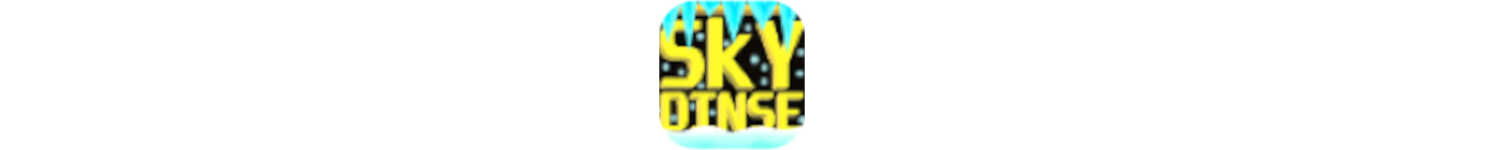
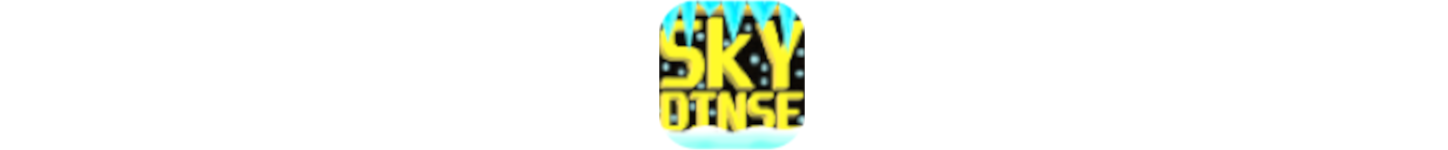
Add files via upload

Changed region(s): [[0.4351, 0.0, 0.5594, 1.0]]

diff --git a/else/citybuild.html b/else/citybuild.html
@@ -19,7 +19,7 @@
 <body>
 
 <div style="float: left;">
-    <img src="../source/style/image/banner/skydinse-banner.png" style="width: 100%" onclick="home()" alt="Skydinse Logo" style="width:950px;height:90px;"> 
+    <img src="../source/style/image/banner/skydinse-banner.png" onclick="home()" alt="Skydinse Logo" > 
 </div>
  
 <!-- Buttons start -->
@@ -52,13 +52,46 @@
     <hr>
      
     <p>CityBuild ist ein Spielmodus, in dem du dein eigenes Grundstück haben und bebauen kannst! Du kannst mit anderen Spieler*innen handeln und mit Jobs dein eigenes Geld verdienen! Weitere Infos folgen bald!</p>
-    <button class="collapsible dark">&#187; CityBuild-Kommentare</button>
+    <button class="collapsible dark">&#187; CityBuild - Kommentare</button>
       <div class="content">
         <h2 style="text-align: center;">Kommentare</h2><br />
         
         <div><object style="width: 100%; height: 800px;" data="../comments/cb-comments.html"></object></div>
         
       </div>
+
+    <button class="collapsible">&#187; CityBuild - Grundkenntnise</button>
+      <div class="content">
+        <h2 style="text-align: center;">Grundkentnisse</h2><br />
+        
+        <p>-- coming soon --</p>
+        
+      </div>
+    
+    <button class="collapsible">&#187; CityBuild - Wo ist Was?</button>
+      <div class="content">
+        <h2 style="text-align: center;">Grundkentnisse</h2><br />
+        
+        <p>-- coming soon --</p>
+        
+      </div>
+    
+    <button class="collapsible">&#187; CityBuild - Weitere Befehle</button>
+      <div class="content">
+        <h2 style="text-align: center;">Grundkentnisse</h2><br />
+        
+        <p>-- coming soon --</p>
+        
+      </div>
+    
+    <button class="collapsible">&#187; CityBuild - Shopkisten</button>
+      <div class="content">
+        <h2 style="text-align: center;">Grundkentnisse</h2><br />
+        
+        <p>-- coming soon --</p>
+        
+      </div>
+
     <script src="../source/script/js/main/collapsible.js"></script>
      
     <hr>

diff --git a/home.html b/home.html
@@ -19,18 +19,18 @@
 <body>
 
 <div style="float: left;">
-    <img src="./source/style/image/banner/skydinse-banner.png" style="width: 100%" onclick="home()" alt="Skydinse Logo" style="width:950px;height:90px;"> 
+    <img src="./source/style/image/banner/skydinse-banner.png" onclick="home()" alt="Skydinse Logo"> 
 </div>
 
 <!-- Buttons start -->
 <div class="btn">
 <p><em><button class="button" onclick="discord();">DISCORD </button>
-<em><button class="button" onclick="link();">LINKS</button></em>
+<em><button class="button" onclick="link();">SOCIAL</button></em>
 <em><button class="button" onclick="docs();">DOCS</button></em>
 <em><button class="button" onclick="home();">STARTSEITE</button></em>
 <em><button class="button" onclick="faq();">FAQ</button></em>
 <em><button class="button" onclick="support();">SUPPORT</button></em>
-<em><button class="button" onclick="contact();">KONTAKT</button></em></p>
+<em><button class="button" onclick="contact();">KONTA.</button></em></p>
 </div> 
 <em><button class="button-event" onclick="citybuild();">CITYBUILD</button></em></p>
 <script src="./source/script/js/buttons/navigation-btns.js"></script>

diff --git a/source/style/css/default-style.css b/source/style/css/default-style.css
@@ -25,6 +25,26 @@ body {
   font-size: 30px;
 }
 
+img {
+  color: white;
+  text-align: center;
+  font-family: monospace;
+  font-size: 30px;
+  border-radius: 35px;
+  background-color: #b4d0f510;
+  transition-duration: 0.6s;
+  display: block; 
+  margin-left: auto; 
+  margin-right: auto; 
+  width: 60%;
+}
+img:hover {
+  border-radius: 20px;
+  background-color: #b4d0f51e;
+  transition-duration: 0.6s;
+  width: 62%;
+}
+
 input[type='checkbox'] {
   display: none;
 }
@@ -470,6 +490,10 @@ a:hover {
   text-align: left;
   outline: none;
   font-size: 15px;
+}
+
+.dark {
+  background-color: rgba(43, 82, 207, 0.377);
 }
 
 .active, .collapsible:hover {

diff --git a/source/style/css/docs-roles-style.css b/source/style/css/docs-roles-style.css
@@ -25,6 +25,26 @@ body {
   font-size: 30px;
 }
 
+img {
+  color: white;
+  text-align: center;
+  font-family: monospace;
+  font-size: 30px;
+  border-radius: 35px;
+  background-color: #b4d0f510;
+  transition-duration: 0.6s;
+  display: block; 
+  margin-left: auto; 
+  margin-right: auto; 
+  width: 60%;
+}
+img:hover {
+  border-radius: 20px;
+  background-color: #b4d0f51e;
+  transition-duration: 0.6s;
+  width: 62%;
+}
+
 input[type='checkbox'] {
   display: none;
 }

diff --git a/source/style/css/home-style.css b/source/style/css/home-style.css
@@ -25,6 +25,26 @@ body {
   font-size: 30px;
 }
 
+img {
+  color: white;
+  text-align: center;
+  font-family: monospace;
+  font-size: 30px;
+  border-radius: 35px;
+  background-color: #b4d0f510;
+  transition-duration: 0.6s;
+  display: block; 
+  margin-left: auto; 
+  margin-right: auto; 
+  width: 60%;
+}
+img:hover {
+  border-radius: 20px;
+  background-color: #b4d0f51e;
+  transition-duration: 0.6s;
+  width: 62%;
+}
+
 input[type='checkbox'] {
   display: none;
 }

diff --git a/docs/about/team.html b/docs/about/team.html
@@ -19,9 +19,9 @@
 <body>
 
 <div style="float: left;">
-    <img src="../../source/style/image/banner/skydinse-banner.png" style="width: 100%" onclick="home()" alt="Skydinse Logo" style="width:950px;height:90px;"> 
+    <img src="../../source/style/image/banner/skydinse-banner.png" onclick="home()" alt="Skydinse Logo"> 
 </div>
- 
+
 <!-- Buttons start -->
 <div class="btn">
   <p><em><button class="button" onclick="discord();">DISCORD </button>

diff --git a/help/else/unban-request.html b/help/else/unban-request.html
@@ -19,9 +19,9 @@
 <body>
 
 <div style="float: left;">
-    <img src="../../source/style/image/banner/skydinse-banner.png" style="width: 100%" onclick="home()" alt="Skydinse Logo" style="width:950px;height:90px;"> 
+    <img src="../../source/style/image/banner/skydinse-banner.png" onclick="home()" alt="Skydinse Logo"> 
 </div>
- 
+
 <!-- Buttons start -->
 <div class="btn">
   <p><em><button class="button" onclick="discord();">DISCORD </button>

diff --git a/help/faq/faq.html b/help/faq/faq.html
@@ -19,9 +19,9 @@
 <body>
 
 <div style="float: left;">
-    <img src="../../source/style/image/banner/skydinse-banner.png" style="width: 100%" onclick="home()" alt="Skydinse Logo" style="width:950px;height:90px;"> 
+    <img src="../../source/style/image/banner/skydinse-banner.png" onclick="home()" alt="Skydinse Logo"> 
 </div>
- 
+
 <!-- Buttons start -->
 <div class="btn">
   <p><em><button class="button" onclick="discord();">DISCORD </button>

diff --git a/help/faq/faq2.html b/help/faq/faq2.html
@@ -19,9 +19,9 @@
 <body>
 
 <div style="float: left;">
-    <img src="../../source/style/image/banner/skydinse-banner.png" style="width: 100%" onclick="home()" alt="Skydinse Logo" style="width:950px;height:90px;"> 
+    <img src="../../source/style/image/banner/skydinse-banner.png" onclick="home()" alt="Skydinse Logo"> 
 </div>
- 
+
 <!-- Buttons start -->
 <div class="btn">
   <p><em><button class="button" onclick="discord();">DISCORD </button>

diff --git a/help/support.html b/help/support.html
@@ -19,9 +19,9 @@
 <body>
 
 <div style="float: left;">
-    <img src="../source/style/image/banner/skydinse-banner.png" style="width: 100%" onclick="home()" alt="Skydinse Logo" style="width:950px;height:90px;"> 
+    <img src="../source/style/image/banner/skydinse-banner.png" onclick="home()" alt="Skydinse Logo"> 
 </div>
- 
+
 <!-- Buttons start -->
 <div class="btn">
   <p><em><button class="button" onclick="discord();">DISCORD </button>

diff --git a/docs/about/links.html b/docs/about/links.html
@@ -17,9 +17,9 @@
 </head>
 
 <body>
-
+  
 <div style="float: left;">
-    <img src="../../source/style/image/banner/skydinse-banner.png" style="width: 100%" onclick="home()" alt="Skydinse Logo" style="width:950px;height:90px;"> 
+    <img src="../../source/style/image/banner/skydinse-banner.png" onclick="home()" alt="Skydinse Logo"> 
 </div>
 
 <!-- Buttons start -->

diff --git a/else/event.html b/else/event.html
@@ -20,8 +20,9 @@
 <body>
 
 <div style="float: left;">
-    <img src="../source/style/image/banner/skydinse-banner.png" style="width: 100%" onclick="home()" alt="Skydinse Logo" style="width:950px;height:90px;"> 
+    <img src="../source/style/image/banner/skydinse-banner.png" onclick="home()" alt="Skydinse Logo"> 
 </div>
+
 
 <!-- Buttons start -->
 <div class="btn">
